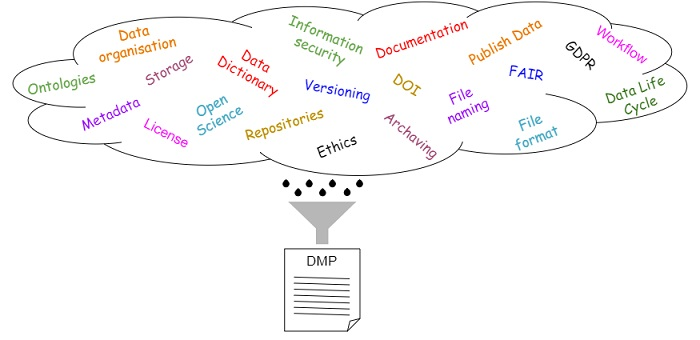
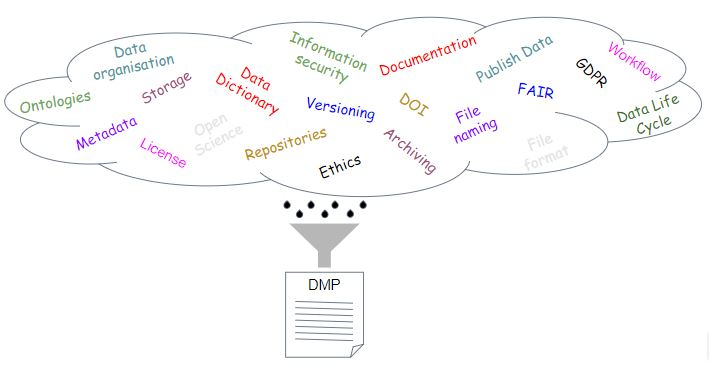
Typo fixes
Change title to upper case, fixed typo in DMP cloud image

diff --git a/content/topics/data-management-plan.md b/content/topics/data-management-plan.md
@@ -4,7 +4,7 @@ contributors: []
 toc: True
 ---
 
-# Data management Plan
+# Data Management Plan
 
 There are a lot of terms regarding data management and a lot of best practices to collect and implement, but how do we gather all the decisions made and how do we know that we have covered it all, that our data will be well managed throughout its life cycle? The answer is to write a data management plan (DMP).
 
